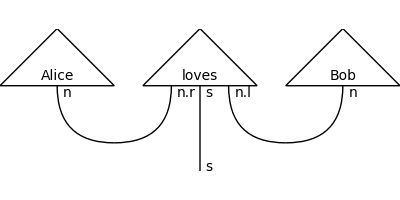
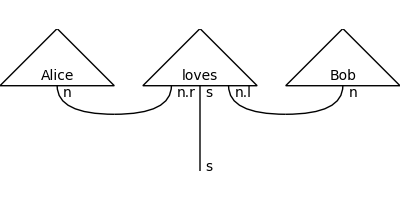
draw swaps in pregroups

diff --git a/discopy/drawing.py b/discopy/drawing.py
@@ -669,14 +669,17 @@ def to_gif(diagram, *diagrams, **params):  # pragma: no cover
             return '<img src="{}">'.format(path)
 
 
-def pregroup_draw(words, cups, **params):
+def pregroup_draw(words, layers, **params):
     """
-    Draws pregroup words and cups.
+    Draws pregroup words, cups and swaps.
     """
+    from discopy.rigid import Cup, Swap
+    has_swaps = any(
+        [isinstance(box, Swap) for layer in layers for box in layer.boxes])
     textpad = params.get('textpad', (.1, .2))
     textpad_words = params.get('textpad_words', (0, .1))
     space = params.get('space', .5)
-    width = params.get('width', 2.)
+    width = params.get('width', 3. if has_swaps else 2)
     fontsize = params.get('fontsize', None)
 
     backend = TikzBackend(use_tikzstyles=params.get('use_tikzstyles', None))\
@@ -704,29 +707,60 @@ def pregroup_draw(words, cups, **params):
                 textpad_words[1], ha='center', fontsize=fontsize)
         return scan
 
-    def draw_cups_and_wires(cups, scan):
-        for j, off in [(j, off)
-                       for j, s in enumerate(cups) for off in s.offsets]:
-            middle = (scan[off] + scan[off + 1]) / 2
-            backend.draw_wire((scan[off], 0), (middle, - j - 1), bend_in=True)
+    def draw_grammar(wires, scan_x):
+        # the even indices 2*n represent the depth for wire n
+        # the odd incides 2*n + 1 represent the depths
+        # of wires that are between wires n and n+1
+        scan_y = [0.] * 2 * len(scan_x)
+        h = .5
+        for off, box in [(s.offsets[i], s.boxes[i])
+                         for s in wires for i in range(len(s))]:
+            x1, y1 = scan_x[off], scan_y[2 * off]
+            x2, y2 = scan_x[off + 1], scan_y[2 * (off + 1)]
+            middle = (x1 + x2) / 2
+            y = max(scan_y[2 * off:2 * (off + 1) + 1])
+            if isinstance(box, Cup):
+                backend.draw_wire((x1, -y), (middle, - y - h), bend_in=True)
+                backend.draw_wire((x2, -y), (middle, - y - h), bend_in=True)
+                depths_to_remove = scan_y[2 * off - 1:2 * (off + 2)]
+                new_gap_depth = 0.
+                if len(depths_to_remove) > 0:
+                    new_gap_depth = max(depths_to_remove)
+                scan_x = scan_x[:off] + scan_x[off + 2:]
+                scan_y = scan_y[:2 * off] + scan_y[2 * (off + 2):]
+                if off > 0:
+                    scan_y[2 * off - 1] = new_gap_depth + h
+            if isinstance(box, Swap):
+                midpoint = (middle, - y - h)
+                backend.draw_wire((x1, -y), midpoint, bend_in=True)
+                backend.draw_wire((x2, -y), midpoint, bend_in=True)
+                backend.draw_wire(midpoint, (x1, - y - h - h), bend_out=True)
+                backend.draw_wire(midpoint, (x2, - y - h - h), bend_out=True)
+                scan_y[2 * off] = y + h + h
+                scan_y[2 * (off + 1)] = y + h + h
+
+            if y1 != y:
+                backend.draw_wire((x1, -y1), (x1, -y), bend_in=True)
+            if y2 != y:
+                backend.draw_wire((x2, -y2), (x2, -y), bend_in=True)
+
+        for i, _ in enumerate(wires[-1].cod if wires else words.cod):
+            label = str(wires[-1].cod[i]) if wires else ""
             backend.draw_wire(
-                (scan[off + 1], 0), (middle, - j - 1), bend_in=True)
-            scan = scan[:off] + scan[off + 2:]
-        for i, _ in enumerate(cups[-1].cod if cups else words.cod):
-            label = str(cups[-1].cod[i]) if cups else ""
-            backend.draw_wire((scan[i], 0), (scan[i], - (len(cups) or 1) - 1))
+                (scan_x[i], -scan_y[2 * i]),
+                (scan_x[i], - (len(wires) or 1) - 1))
             if params.get('draw_type_labels', True):
                 backend.draw_text(
-                    label, scan[i] + textpad[0], - (len(cups) or 1) - space,
+                    label, scan_x[i] + textpad[0], - (len(wires) or 1) - space,
                     fontsize=params.get('fontsize_types', fontsize))
 
     scan = draw_triangles(words.normal_form())
-    draw_cups_and_wires(cups, scan)
+    draw_grammar(layers, scan)
     backend.output(
         params.get('path', None),
         tikz_options=params.get('tikz_options', None),
         xlim=(0, (space + width) * len(words.boxes) - space),
-        ylim=(- len(cups) - space, 1),
+        ylim=(- len(layers) - space, 1),
         margins=params.get('margins', DEFAULT['margins']),
         aspect=params.get('aspect', 'equal'))
 

diff --git a/discopy/grammar/pregroup.py b/discopy/grammar/pregroup.py
@@ -98,6 +98,7 @@ def draw(diagram, **params):
     ValueError
         Whenever the input is not a pregroup diagram.
     """
+    from discopy.rigid import Swap
     if not isinstance(diagram, Diagram):
         raise TypeError(messages.type_err(Diagram, diagram))
     words, is_pregroup = Id(Ty()), True
@@ -112,7 +113,8 @@ def draw(diagram, **params):
     cups = diagram[len(words):].foliation().boxes\
         if len(words) < len(diagram) else []
     is_pregroup = is_pregroup and words and all(
-        isinstance(box, Cup) for s in cups for box in s.boxes)
+        isinstance(box, Cup) or isinstance(box, Swap)
+        for s in cups for box in s.boxes)
     if not is_pregroup:
         raise ValueError(messages.expected_pregroup())
     drawing.pregroup_draw(words, cups, **params)

diff --git a/test/test_drawing.py b/test/test_drawing.py
@@ -113,6 +113,17 @@ def test_pregroup_draw():
     return Alice @ loves @ Bob >> Cup(n, n.r) @ Id(s) @ Cup(n.l, n)
 
 
+@draw_and_compare('gave-up.png', draw=grammar.draw)
+def test_cross_composition_draw():
+    s, n = Ty('s'), Ty('n')
+    gave, up = Word('gave', n.r @ s @ n.l), Word('up', s.r @ n.r.r @ n.r @ s)
+    swap, cups = Diagram.swap, Diagram.cups
+    diagram = gave @ up >> Id(n.r @ s) @ swap(n.l, s.r @ n.r.r) @ Id(n.r @ s)\
+                        >> cups(n.r @ s, s.r @ n.r.r) @ swap(n.l, n.r @ s)
+    grammar.draw(diagram, path='.')
+    return diagram
+
+
 @draw_and_compare('bell-state.png', draw=Circuit.draw, aspect='equal')
 def test_draw_bell_state():
     from discopy.quantum import H, sqrt, Bra, Ket, Id, CX

diff --git a/discopy/messages.py b/discopy/messages.py
@@ -66,7 +66,8 @@ def missing_types_for_empty_sum():
 
 def expected_pregroup():
     """ pregroup.draw error. """
-    return "Expected a pregroup diagram of shape `word @ ... @ word >> cups`,"\
+    return "Expected a pregroup diagram of shape"\
+           "`word @ ... @ word >> cups_and_swaps`,"\
            " use diagram.draw() instead."
 
 
